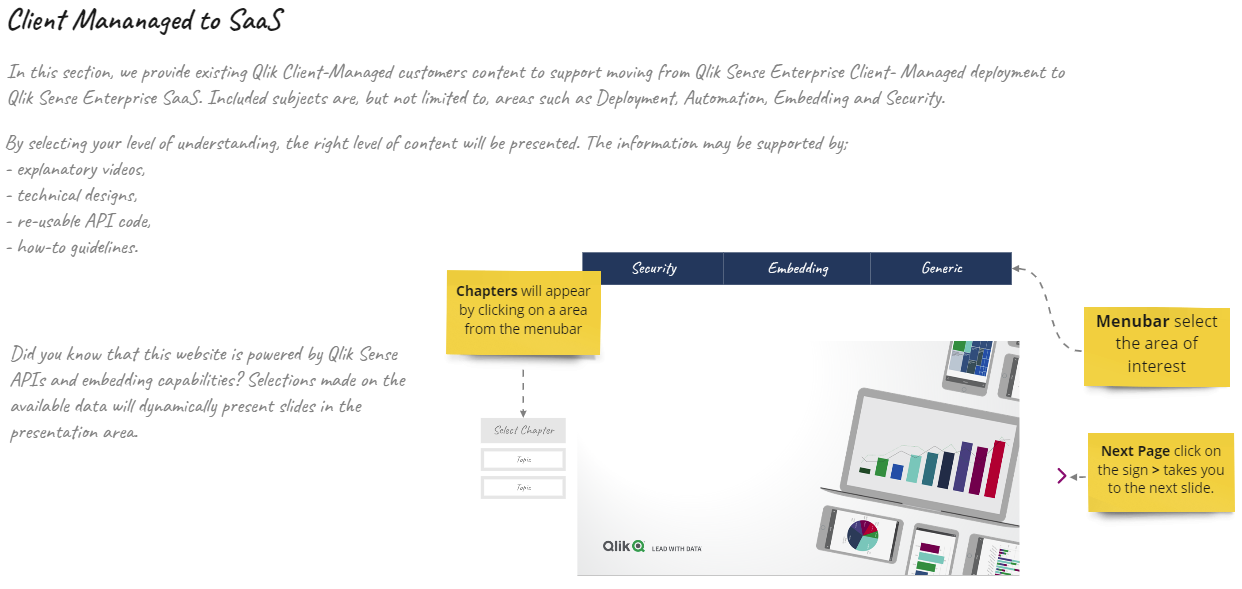
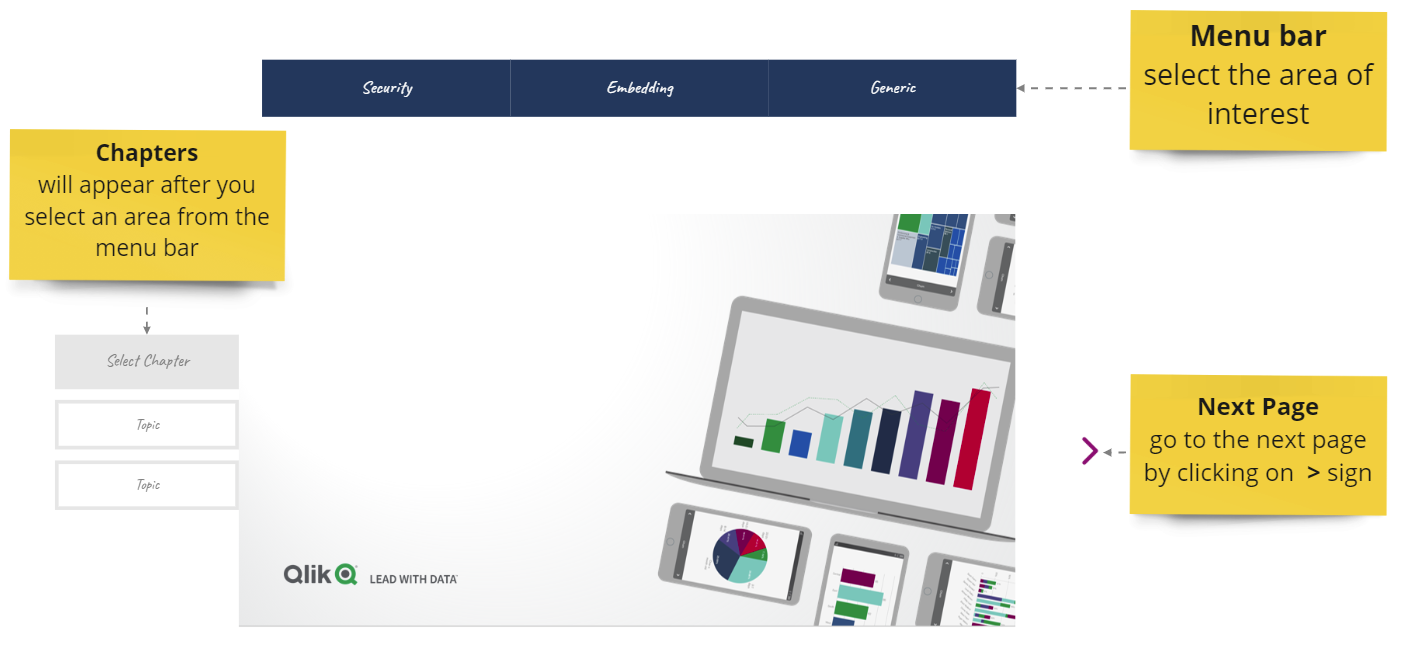
sorting fixed, but slow after selection

diff --git a/imports/ui/useCases/useCaseSelection.js b/imports/ui/useCases/useCaseSelection.js
@@ -161,18 +161,19 @@ Template.useCaseSelection.events({
         nav.selectMenuItemInSense("*Video overview:*");
     },
     "click #CM2SAAS": async function (e, t) { //if anaything happens with the dropdown box... adjust the selection, and get new slides.
-        var selectedRole = e.currentTarget.id;
+        var selectedRole = 'Client managed to SaaS' //e.currentTarget.id;
         await getSlides(selectedRole);
     }
     ,
     "click #SAAS": async function (e, t) { //if anaything happens with the dropdown box... adjust the selection, and get new slides.
-        var selectedRole = e.currentTarget.id;
+        var selectedRole = 'Qlik Cloud' //e.currentTarget.id;
         await getSlides(selectedRole);
     }
 });
 
 async function getSlides(selectedRole) {
     Cookies.set("currentMainRole", selectedRole);
+    // await nav.makeClearAll(); already in set selection
     await setSelectionInSense("Partial Workshop", selectedRole);
     //get slides
     await getAllSlides();
@@ -350,19 +351,7 @@ export async function getLevel1(qix) { //chapters
             qDimensions: [
                 {
                     qDef: {
-                        qFieldDefs: ['Level 1'],
-                        "qSortCriterias": [{
-                            "qSortByState": 0,
-                            "qSortByFrequency": 0,
-                            "qSortByNumeric": 0,
-                            "qSortByAscii": 0,
-                            "qSortByLoadOrder": 1,
-                            "qSortByExpression": 0,
-                            "qExpression": {
-                                "qv": "max(CSVRowNo)"
-                            },
-                            "qSortByGreyness": 0
-                        }],
+                        qFieldDefs: ['Level 1']
                     }
                 }],
             "qMeasures": [
@@ -377,10 +366,10 @@ export async function getLevel1(qix) { //chapters
                         "qSortByFrequency": 0,
                         "qSortByNumeric": 0,
                         "qSortByAscii": 0,
-                        "qSortByLoadOrder": 0,
-                        "qSortByExpression": 1,
+                        "qSortByLoadOrder": 1,
+                        "qSortByExpression": 0,
                         "qExpression": {
-                            "qv": "max(CSVRowNo)"
+                            "qv": "min(CSVRowNo)"
                         }
                     }
                 }
@@ -394,7 +383,8 @@ export async function getLevel1(qix) { //chapters
         qWidth: 3,
         qHeight: 3333
     }]);
-    return SortSenseData(sessionData[0].qMatrix);
+    return sessionData[0].qMatrix
+    // return SortSenseData(sessionData[0].qMatrix);
 }
 
 function SortSenseData(senseArray) {
@@ -404,7 +394,7 @@ function SortSenseData(senseArray) {
     for (const element of senseArray) {
         result.push(element);
     }
-    // console.log("🚀  SortSenseData ~ result", result)
+    console.log("🚀  SortSenseData ~ result", result)
     return result;
 }
 
@@ -440,7 +430,7 @@ export async function getAllSlideHeadersPlain(qix) {
                         "qSortByLoadOrder": 1,
                         "qSortByExpression": 1,
                         "qExpression": {
-                            "qv": "max(CSVRowNo)"
+                            "qv": "min(CSVRowNo)"
                         },
                         "qSortByGreyness": 0
                     }],
@@ -500,7 +490,7 @@ export async function setChangeListener(qix) {
     try {
         qix.app.on('changed', async () => {
             // console.log('QIX instance change event received, so get the new data set out of Qlik Sense, and store the current selection in the database.');
-            await getCurrentSelections();
+            // await getCurrentSelections();
             // Session.set("slideHeaders", null); //reset the slideheaders to ensure all slide content templates are re-rendered.
             // Meteor.setTimeout(async function wait() {
             //     await getAllSlides();

diff --git a/imports/ui/slideGenerator/slides.html b/imports/ui/slideGenerator/slides.html
@@ -22,12 +22,14 @@
       {{#if showSubjectAreaIntroduction}}
       <section>
         <div class="ui container">
-          <h1 class="ui dividing header">Select your favorite subject area<a class="anchor" id="types"></a></h1>
-          <p>You are navigating through slides in a presentation about {{presentationName}}. <br> Please select your
-            favorite subject in the menu above.</p>
+          <h1 class="ui dividing header">{{presentationName}} - Select your favorite subject area<a class="anchor"
+              id="types"></a></h1>
+          <p>From the top menu select the subject area of choice. In the left menu you find additional chapters related
+            to that subject area.
+          </p>
           <div class="ui list">
 
-            <div class="ui placeholder segment">
+            <div class="ui placeholder ">
               <img class="ui image" src="/images/subject area introduction.png">
               <!-- <div class="ui two column stackable center aligned grid">
                 {{#each item in subjectAreas }}
@@ -54,13 +56,13 @@
             {{>chapters}}
           </div>
           <div class="twelve wide column">
-            <div class="ui integrationBreaker" style="text-align: left;font-size: 0.8em;">
+            <div class="ui integrationBreaker" style="text-align: left;font-size: 1em;">
               <h1 class="ui header" style="color: #0E2F4E;">
                 Next chapter: {{this}} </h1>
               <div class="ui divider"></div>
-              <div style="width: 50%;">
+              <div>
 
-                <h2 class="ui header" style="font-size: 1em;" >In this chapter you will see the following slides: </h2>
+                <h2 class="ui header" style="font-size: 1em;">In this chapter you will see the following slides: </h2>
                 {{#each slide in TableOfContentForChapter }}
                 <div class="ui bulleted list">
                   <div class="item"> {{slide}}
@@ -68,12 +70,17 @@
                 </div>
                 {{/each}}
                 <br>
-                You can select another chapter on the left,
-                or a different subject area in the top.
+                <div class="ui icon message">
+                  <i class="book icon"></i>
+                  <div class="content">
+                    <div class="header">
+                      How to move through the content library?
+                    </div>
+                    <p>You can click the right arrow to navigate through all the slides, or you can directly go to a specific chapter by using the menu on the left,
+                      or start over by selecting a different subject area in the top. </p>
+                  </div>
+                </div>
               </div>
-              <!-- <div class="ui secondary segment">
-                <p>Explain what the user is seeing, (a presentation with a table of chapters on the left, and subject on the top</p>
-              </div> -->
             </div>
           </div>
         </div>
@@ -114,9 +121,9 @@
 </template>
 
 <template name="chapters">
-  <div id="chapters" class="ui secondary vertical fluid menu">
+  <div id="chapters" class="ui secondary vertical fluid menu" style="text-align: left">
     <div class="header item">
-      {{presentationName}} - {{currentSubjectArea}} chapters 
+      {{presentationName}} - {{currentSubjectArea}} chapters
     </div>
     {{#each chapter in chapters }}
 

diff --git a/imports/ui/nav.js b/imports/ui/nav.js
@@ -52,6 +52,7 @@ Template.nav.events({
       initQlikSense();
       event.preventDefault();      
       console.log('make selection based on id')
+      await makeClearSelectionInField("Level 1");
       await selectInSense('Subject area', menuItem);
     }    
   }
@@ -121,6 +122,36 @@ export async function makeSearchSelectionInField(fieldName, value) {
     sAlert.error(message, error);
   }
 }
+
+export async function makeClearSelectionInField(fieldName) {
+console.log("🚀 ~ file: nav.js ~ line 127 ~ makeClearSelectionInField ~ makeClearSelectionInField", fieldName)
+
+  try {
+    var qix = await slideApp.getQix();
+    var myField = await qix.app.getField(fieldName);
+    var result = await myField.clear();
+  } catch (error) {
+    var message =
+      "make clear SelectionInField: Can not connect to the Qlik Sense Engine API via enigmaJS";
+    console.error(message + " Sense reported the following error: ", error);
+    sAlert.error(message, error);
+  }
+}
+
+export async function makeClearAll() {
+  console.log("🚀 ~ file: nav.js ~ line 142 ~ makeClearAll")
+  
+    try {
+      var qix = await slideApp.getQix();
+      await qix.app.clearAll();
+    } catch (error) {
+      var message =
+        "clear all selections: Can not connect to the Qlik Sense Engine API via enigmaJS";
+      console.error(message + " Sense reported the following error: ", error);
+      sAlert.error(message, error);
+    }
+  }
+
 
 //
 

diff --git a/imports/ui/nav.html b/imports/ui/nav.html
@@ -2,21 +2,23 @@
   <div class="ui container top secondary stackable menu mainNavBar">
     <div class="column"> <a class="skip-main item" href="#bodyDropdown">SKIP TO CONTENT</a>
     </div>
+    {{#if isSlide}}
     <div class="column"> <a id="home" class="{{#if isMainLandingPage}} active {{/if}} item">
         HOME</a>
     </div>
-      <!-- for each level 1, show menu item -->
-      {{#each item in items }}
+    {{/if}}
+    <!-- for each level 1, show menu item -->
+    {{#each item in items }}
 
-      <div class="column"> <a id="{{item.qText}}" href="" class="{{active item}} item">
-          {{item.qText}}
-        </a>
-      </div>
+    <div class="column"> <a id="{{item.qText}}" href="" class="{{active item}} item">
+        {{item.qText}}
+      </a>
+    </div>
 
-      {{/each}}
+    {{/each}}
 
 
-</div>
+  </div>
 </template>
 
 <template name="sheetSelector">

diff --git a/imports/ui/useCases/useCaseSelection.html b/imports/ui/useCases/useCaseSelection.html
@@ -21,11 +21,11 @@
         </div>
         <div class="three column row" style="margin-bottom: 50px; left: 8px;">
             <div class="ui three blue buttons">
-                <button class="ui active button " id="SAAS" tabindex="0">SaaS</button>
+                <button class="ui active button " id="SAAS" tabindex="0">Qlik Cloud</button>
                 <div class="or"></div>
                 <button class="ui button " id="CM">Client Managed</button>
                 <div class="or"></div>
-                <button class="ui button selectRole" id="CM2SAAS">Client Managed to SaaS</button>
+                <button class="ui button selectRole" id="CM2SAAS">Client Managed to Qlik Cloud</button>
               </div>
            
             <div class="column">

diff --git a/imports/ui/slideGenerator/slides.js b/imports/ui/slideGenerator/slides.js
@@ -301,7 +301,7 @@ Template.chapters.helpers({
     },
     active(chapter) {
         chapter = chapter.qText;
-        console.log("🚀 ~ file: slides.js ~ line 303 ~ active ~ chapter", chapter)
+        // console.log("🚀 ~ file: slides.js ~ line 303 ~ active ~ chapter", chapter)
         if (chapter === Session.get("currentChapter")) {
             return 'active'
         }

diff --git a/imports/ui/slideGenerator/reveal.css b/imports/ui/slideGenerator/reveal.css
@@ -499,7 +499,7 @@ html {
     display: none;
     position: absolute;
     width: 100%;
-    padding: 20px 0px;
+    padding: 0px 0px;
     pointer-events: auto;
     z-index: 10;
     -webkit-transform-style: flat;

diff --git a/imports/ui/slideGenerator/slides.css b/imports/ui/slideGenerator/slides.css
@@ -89,7 +89,7 @@
     width: 50%;
     min-width: 1000px;
     height: 800px;
-    padding: 20px;
+    /* padding: 20px; */
     font-size: 50px;
     text-align: center;
     top: 20px;
